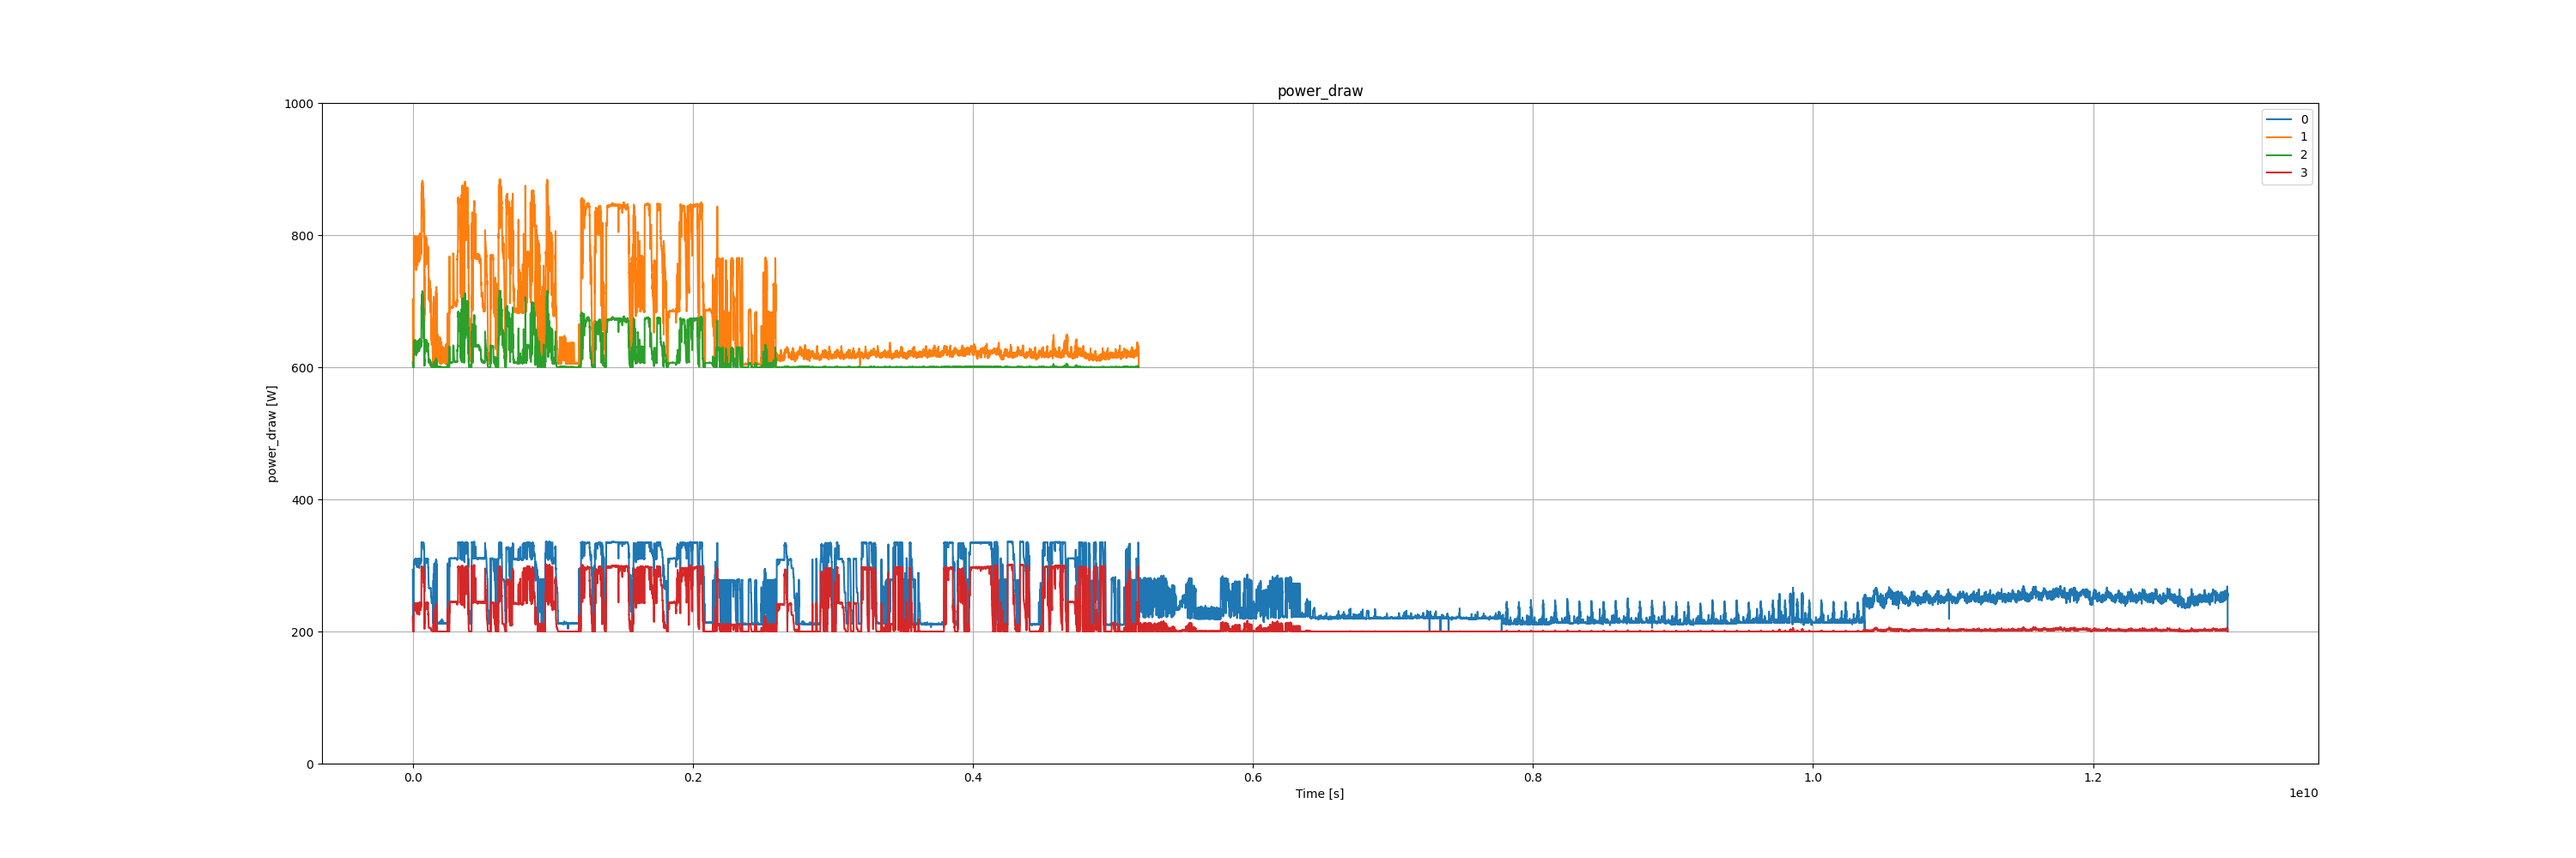
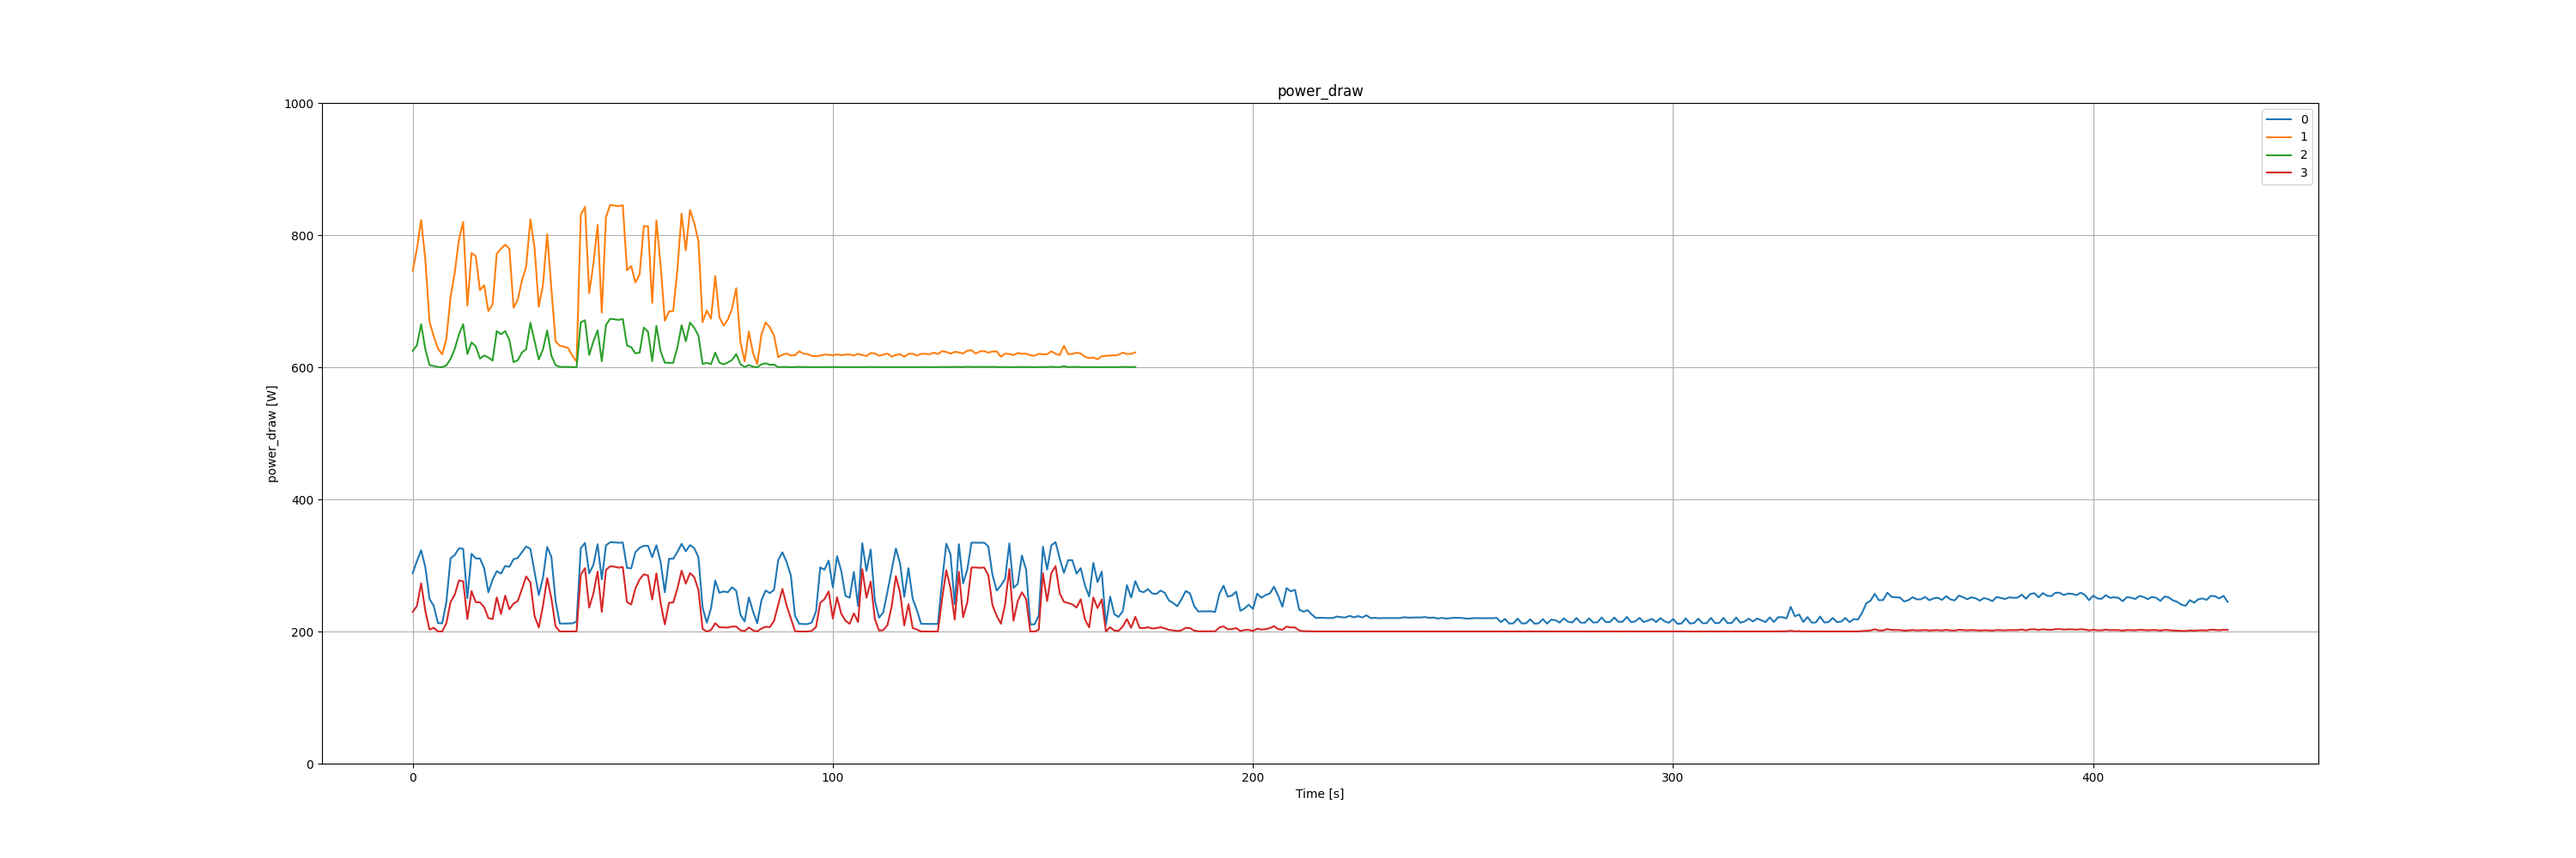
window size works again - issues solved further todo: metamodel

Changed region(s): [[0.155, 0.62, 0.868, 0.744], [0.155, 0.217, 0.465, 0.434]]

diff --git a/opendc-analyze/src/main/python/models/MultiModel.py b/opendc-analyze/src/main/python/models/MultiModel.py
@@ -21,7 +21,7 @@ class MultiModel:
         self.window_size = window_size
 
         # run init functions
-        self.check_and_return_metric(input_metric)
+        self.check_and_set_metric(input_metric)
         self.set_output_folder()
         self.init_models()
 
@@ -69,9 +69,9 @@ class MultiModel:
             self.raw_models.append(raw_model)
 
             # aggregate and push the model
-            self.aggregated_models.append(
-                raw_model.host.select_dtypes(include=[np.number]).groupby("timestamp")[self.metric].aggregate("sum")
-            )
+            processed_raw_model = raw_model.host.select_dtypes(include=[np.number]).groupby("timestamp")
+            processed_raw_model = processed_raw_model[self.metric].aggregate("sum")
+            self.aggregated_models.append(processed_raw_model)
 
     """
     This function serves as an error prevention mechanism. It checks if the input metric is valid.
@@ -79,7 +79,7 @@ class MultiModel:
     @:return None, but sets the self.metric and self.measure_unit attributes. It can also raise an error.
     """
 
-    def check_and_return_metric(self, input_metric):
+    def check_and_set_metric(self, input_metric):
         if input_metric not in ["power_draw", "carbon_emission"]:
             raise ValueError("Invalid metric. Please choose from 'power_draw', 'carbon_emission'")
         self.metric = input_metric
@@ -95,11 +95,12 @@ class MultiModel:
 
     def compute_windowed_aggregation(self, aggregation_function="median"):
         print("Computing windowed aggregation for " + self.metric)
-        for model in self.raw_models:
+        for model in self.aggregated_models:
             # Select only numeric data for aggregation
-            numeric_data = model.host.select_dtypes(include=[np.number])
+            numeric_values = model.values
+
             # Calculate the median for each window
-            windowed_data = model.host.select_dtypes(include=[np.number]).groupby(np.divide(np.arange(len(numeric_data)), self.window_size)).mean(numeric_only=True)
+            windowed_data = self.mean_of_chunks(numeric_values, self.window_size)
             self.computed_data.append(windowed_data)
 
     def generate(self, aggregation_function="median"):
@@ -123,8 +124,13 @@ class MultiModel:
 
     def plot_windowed_aggregation(self):
         i = 0
-        for model in self.aggregated_models:
+        for model in self.computed_data:
             plt.plot(model, label=i)
             i = i + 1
 
         plt.legend()
+
+    def mean_of_chunks(self, np_array, chunk_size):
+        return [np.mean(np_array[i:i + chunk_size]) for i in range(0, len(np_array), chunk_size)]
+
+

diff --git a/opendc-analyze/src/main/python/experiments.py b/opendc-analyze/src/main/python/experiments.py
@@ -36,6 +36,7 @@ def exp1_window_sizes(window_sizes=[1, 10, 100, 1000, 10000], metrics=["power_dr
 
         for window_size in window_sizes:
             start = time.time()
-            MultiModel(metric, window_size).generate()
+            multimodel = MultiModel(metric, window_size)
+            multimodel.generate()
             with open(analysis_file_path, "a") as f:
                 f.write(f"Time taken for window size {window_size}: {round(time.time() - start, 3)} seconds\n")

diff --git a/opendc-analyze/src/main/python/main.py b/opendc-analyze/src/main/python/main.py
@@ -14,8 +14,8 @@ def main():
         window_sizes=[1, 10, 100, 1000, 5000]
     )
 
-    # Metamodel(multimodel=MultiModel(input_metric="carbon_emission", window_size=100)).generate()
-    # Metamodel(multimodel=MultiModel(input_metric="power_draw", window_size=100)).generate()
+    Metamodel(multimodel=MultiModel(input_metric="carbon_emission", window_size=100)).generate()
+    Metamodel(multimodel=MultiModel(input_metric="power_draw", window_size=100)).generate()
 
 
 main()
